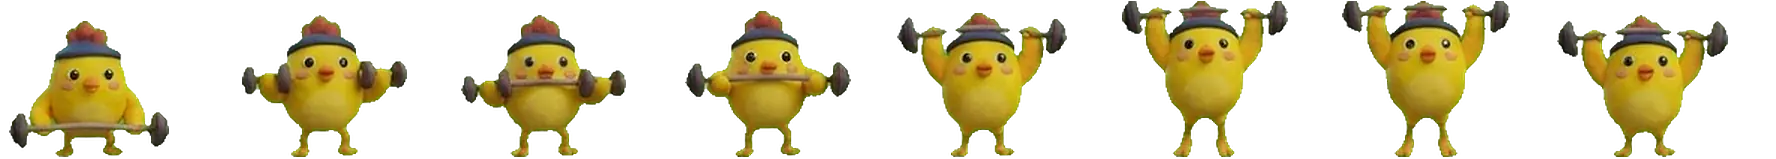
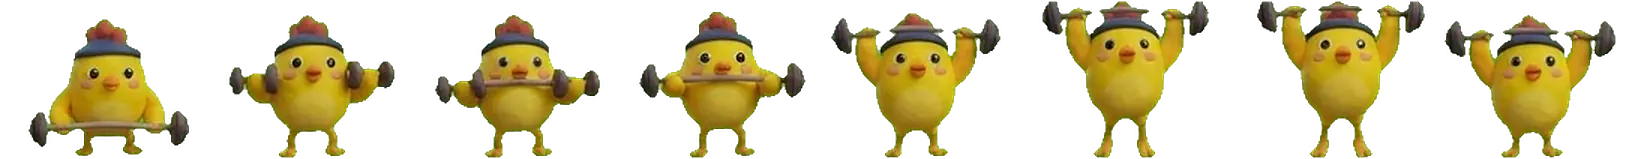
Sequências estáveis (caixa fixa, âncora na cabeça), tema Massinha (?tema=massinha)
Claude-Session: https://claude.ai/code/session_01Sv1vT94SfEQfGX6e3yK9TJ

diff --git a/index.html b/index.html
@@ -1,15 +1,16 @@
 <!doctype html>
-<html lang="pt-BR"><head><meta charset="utf-8"><meta name="viewport" content="width=device-width,initial-scale=1,viewport-fit=cover"><meta name="app-ver" content="v93-20261113l"><meta name="copyright" content="© Lucas de Souza. Todos os direitos reservados."><script>/* © Lucas de Souza. Todos os direitos reservados. Proibida a cópia, redistribuição ou uso comercial sem autorização escrita. */</script><script>/*ST-INI*/
+<html lang="pt-BR"><head><meta charset="utf-8"><meta name="viewport" content="width=device-width,initial-scale=1,viewport-fit=cover"><meta name="app-ver" content="v96-20261113o"><meta name="copyright" content="© Lucas de Souza. Todos os direitos reservados."><script>/* © Lucas de Souza. Todos os direitos reservados. Proibida a cópia, redistribuição ou uso comercial sem autorização escrita. */</script><script>/*ST-INI*/
 function stDecide(s){if(!s||typeof s!=="object")return{modo:"teste"};if(s.estado==="migrado"){var l=typeof s.loja==="string"&&/^https:\/\//.test(s.loja)?s.loja:"";return{modo:"migrado",msg:typeof s.mensagem==="string"&&s.mensagem?s.mensagem.slice(0,300):"O Frangômetro agora está na loja. Baixe o app oficial.",loja:l}}return{modo:"teste"}}
 function stAplica(d,doc){if(d.modo!=="migrado"||doc.getElementById("st-bloqueio"))return false;var o=doc.createElement("div");o.id="st-bloqueio";o.setAttribute("role","alertdialog");o.style.cssText="position:fixed;inset:0;z-index:2147483647;background:#27335F;color:#fff;display:flex;flex-direction:column;align-items:center;justify-content:center;padding:24px;text-align:center;font:16px system-ui,sans-serif";var h=doc.createElement("h1");h.textContent="Esta versão de teste foi encerrada";h.style.cssText="font-size:22px;margin:0 0 12px";var p=doc.createElement("p");p.textContent=d.msg;p.style.cssText="margin:0 0 20px;max-width:320px;line-height:1.4";o.appendChild(h);o.appendChild(p);if(d.loja){var a=doc.createElement("a");a.href=d.loja;a.textContent="Abrir na loja";a.style.cssText="background:#fff;color:#27335F;padding:12px 24px;border-radius:12px;font-weight:700;text-decoration:none";o.appendChild(a)}doc.body.appendChild(o);return true}
 /*ST-FIM*/
 (function(){try{function ver(){fetch("app-status.json?_="+Date.now(),{cache:"no-store"}).then(function(r){return r.ok?r.json():null}).then(function(j){if(j)stAplica(stDecide(j),document)}).catch(function(){})}
-if(document.readyState==="loading")document.addEventListener("DOMContentLoaded",ver);else ver();document.addEventListener("visibilitychange",function(){if(!document.hidden)ver()});setInterval(ver,300000)}catch(e){}})()</script><script>(function(){try{var V="v93-20261113l";function ocupado(){var a=document.activeElement,l=document.getElementById("layer");return (a&&/^(INPUT|TEXTAREA|SELECT)$/.test(a.tagName))||(l&&l.children.length>0)}
+if(document.readyState==="loading")document.addEventListener("DOMContentLoaded",ver);else ver();document.addEventListener("visibilitychange",function(){if(!document.hidden)ver()});setInterval(ver,300000)}catch(e){}})()</script><script>(function(){try{var V="v96-20261113o";function ocupado(){var a=document.activeElement,l=document.getElementById("layer");return (a&&/^(INPUT|TEXTAREA|SELECT)$/.test(a.tagName))||(l&&l.children.length>0)}
 function checa(){try{if(ocupado())return;fetch(location.pathname+"?_="+Date.now(),{cache:"no-store"}).then(function(r){return r.text()}).then(function(t){var m=t.match(/name="app-ver" content="([^"]+)"/);if(m&&m[1]!==V&&!ocupado()&&sessionStorage.getItem("frv")!==m[1]){sessionStorage.setItem("frv",m[1]);location.replace(location.pathname+"?v="+m[1]+location.hash)}}).catch(function(){})}catch(e){}}
 checa();document.addEventListener("visibilitychange",function(){if(!document.hidden)checa()});setInterval(checa,300000)}catch(e){}})()</script><meta name="theme-color" content="#27335F"><meta name="apple-mobile-web-app-capable" content="yes"><meta name="mobile-web-app-capable" content="yes"><meta name="apple-mobile-web-app-title" content="Frangômetro"><link rel="icon" href="icon.png"><link rel="apple-touch-icon" href="apple-touch-icon.png"><link rel="manifest" href="manifest.json"><style>:root{color-scheme:light;padding-top:env(safe-area-inset-top,0px);padding-bottom:env(safe-area-inset-bottom,0px)}body{margin:0;font:14px system-ui,sans-serif}img{max-width:100%}[hidden]{display:none!important}</style></head><body>
 <title>Frangômetro</title>
 <meta name="claude:viewport-fit-sides" content="cover">
 <link rel="preconnect" href="https://fonts.googleapis.com">
+<script>try{var q=location.search.match(/[?&]tema=(\w+)/);if(q){if(q[1]==="massinha")localStorage.setItem("raelfit:tema","massinha");else localStorage.removeItem("raelfit:tema")}if(localStorage.getItem("raelfit:tema")==="massinha"){document.documentElement.setAttribute("data-tema","massinha");var l=document.createElement("link");l.rel="stylesheet";l.href="https://fonts.googleapis.com/css2?family=Fredoka:wght@500;600;700&family=Nunito:wght@600;700;800&display=swap";document.head.appendChild(l)}}catch(e){}</script>
 <link rel="stylesheet" href="https://fonts.googleapis.com/css2?family=Big+Shoulders+Display:wght@700;900&family=Barlow:wght@500;600;700&display=swap">
 <style>
 /* Layout: app de uma coluna, mobile-first, barra de abas fixa embaixo, folhas (sheets) sobem de baixo */
@@ -265,7 +266,7 @@ details.acc summary::-webkit-details-marker{display:none}
 /* sequências reais (spritesheet em tiras, âncora nos pés) */
 .rs-sq{overflow:hidden}.rs-sq img{inset:auto;left:0;top:0;height:100%;max-width:none}
 @keyframes rsStrip{to{transform:translateX(-100%)}}
-.rs-correS .rs-c{animation:rsCorreS .75s ease-in-out infinite}
+.rs-correS .rs-c{animation:none}
 @keyframes rsCorreS{0%,100%{transform:translateY(0)}50%{transform:translateY(-3%)}}
 .rs-correS .rs-som{animation:rsSomC .75s ease-in-out infinite}
 .rs-treinaS .rs-f0{animation:rsTS0 6s steps(1) infinite}.rs-treinaS .rs-f1{animation:rsTS1 6s steps(1) infinite}
@@ -640,6 +641,36 @@ input[type=file]::file-selector-button{border-radius:10px}
 .sheet:has(.onb) .sheet-f .btn.pri:active{transform:scale(.98)}
 .sheet:has(.onb) .sheet-f .btn.ghost{clip-path:none;border-radius:18px}
 .bar>i{box-shadow:inset 0 0 0 1px rgba(27,22,48,.55)}
+/*TEMA MASSINHA (preview): visual quente e macio saído do Rael. Só liga com ?tema=massinha (volta com ?tema=classico). Não muda funções nem dados. */
+html[data-tema=massinha]{--bg:#FFF1CF;--surface:#FFFBF0;--surface-2:#FFEBB8;--ink:#2B3158;--ink-2:#46507F;--muted:#565B7C;--line:#EBD9A8;--accent:#3B4F8F;--accent-ink:#fff;--accent-soft:#E3E8F7;--prot:#4C66B0;--carb:#F2B93B;--gord:#D4574A;--fib:#A39BB8;--good:#2F7D57;--warn:#8A5A00;--bad:#B93A2E;--deficit:#4C66B0;--surplus:#D4574A;--grid:#F0E1B8;--axis:#D8C48E;--gema:#FFE08A;--f-display:"Fredoka","Baloo 2",ui-rounded,system-ui,sans-serif;--f-body:"Nunito",ui-rounded,system-ui,-apple-system,"Segoe UI",sans-serif;--rad:26px;--rad-m:18px;--sombra:inset 0 3px 0 rgba(255,255,255,.95),inset 0 -6px 10px rgba(214,178,92,.22),0 10px 20px rgba(120,90,30,.13),0 2px 3px rgba(120,90,30,.12)}
+html[data-tema=massinha] body{background:radial-gradient(120% 60% at 20% 0,#FFF9E6 0,#FFF1CF 55%,#FDE6B4 100%) fixed;font-weight:600}
+html[data-tema=massinha] h1,html[data-tema=massinha] h2,html[data-tema=massinha] h3,html[data-tema=massinha] .sec-title h2{text-transform:none;letter-spacing:0;font-weight:700}
+html[data-tema=massinha] h1{font-size:28px}html[data-tema=massinha] h2{font-size:21px}html[data-tema=massinha] h3{font-size:18px}html[data-tema=massinha] .sec-title h2{font-size:19px}
+html[data-tema=massinha] .card,html[data-tema=massinha] .ex-card{background:linear-gradient(180deg,#FFFEF8,#FFF6DD);border:0;border-radius:var(--rad);box-shadow:var(--sombra)}
+html[data-tema=massinha] .card.flat,html[data-tema=massinha] details.sec .sec-body>.card{background:none;box-shadow:none}
+html[data-tema=massinha] .fr-bal,html[data-tema=massinha] .fr-balao{background:linear-gradient(180deg,#FFE9A3,#FFDB74);border-radius:24px;box-shadow:inset 0 3px 0 rgba(255,255,255,.7),inset 0 -5px 8px rgba(214,160,40,.25),0 8px 16px rgba(120,90,30,.14);color:#2B3158}
+html[data-tema=massinha] .btn{border-radius:var(--rad-m);font-family:var(--f-display);font-weight:600;font-size:17px;text-transform:none;letter-spacing:0;background:linear-gradient(180deg,#FFFDF6,#FFEFC2);color:var(--ink);box-shadow:inset 0 3px 0 rgba(255,255,255,.95),inset 0 -4px 0 rgba(214,178,92,.35),0 5px 10px rgba(120,90,30,.15);transition:transform .08s,box-shadow .08s}
+html[data-tema=massinha] .btn:active{transform:translateY(2px);box-shadow:inset 0 2px 0 rgba(255,255,255,.9),inset 0 -2px 0 rgba(214,178,92,.35),0 2px 5px rgba(120,90,30,.15)}
+html[data-tema=massinha] .btn.pri,html[data-tema=massinha] .card .btn.pri,html[data-tema=massinha] .sheet .btn.pri{background:linear-gradient(180deg,#5670B8,#3B4F8F);color:#fff;box-shadow:inset 0 3px 0 rgba(255,255,255,.3),inset 0 -4px 0 rgba(0,0,0,.2),0 6px 12px rgba(59,79,143,.35)}
+html[data-tema=massinha] .btn.pri:active{box-shadow:inset 0 2px 0 rgba(255,255,255,.25),inset 0 -2px 0 rgba(0,0,0,.2),0 2px 6px rgba(59,79,143,.35)}
+html[data-tema=massinha] .btn.sm{border-radius:14px;font-size:15px}
+html[data-tema=massinha] nav.tabs{background:linear-gradient(180deg,#FFFDF5,#FFF1CC);border-top:0;border-radius:26px 26px 0 0;box-shadow:0 -6px 18px rgba(120,90,30,.14),inset 0 3px 0 rgba(255,255,255,.9)}
+html[data-tema=massinha] nav.tabs button{color:#5C628A;font-family:var(--f-display);font-weight:600;font-size:12.5px;text-transform:none;letter-spacing:0}
+html[data-tema=massinha] nav.tabs button[aria-current="page"]{color:var(--accent)}
+html[data-tema=massinha] nav.tabs button[aria-current="page"] svg{background:#FFD95A;border-radius:14px;padding:4px;width:34px;height:30px;box-shadow:inset 0 2px 0 rgba(255,255,255,.8),inset 0 -3px 0 rgba(214,160,40,.4)}
+html[data-tema=massinha] .fr-logo{font-family:var(--f-display);font-weight:700;color:var(--ink)}
+html[data-tema=massinha] .pill,html[data-tema=massinha] .chip,html[data-tema=massinha] .fr-chip{font-weight:700}html[data-tema=massinha] .pill.acc{background:var(--accent-soft);color:var(--accent)}
+html[data-tema=massinha] .seg{background:#FFEBB8;border-radius:var(--rad-m);box-shadow:inset 0 2px 4px rgba(214,160,40,.3)}
+html[data-tema=massinha] .seg button{font-family:var(--f-display);font-weight:600;text-transform:none;border-radius:14px}
+html[data-tema=massinha] .seg button[aria-pressed="true"],html[data-tema=massinha] .seg button.on,html[data-tema=massinha] .seg button[aria-selected="true"]{background:linear-gradient(180deg,#5670B8,#3B4F8F);color:#fff;box-shadow:inset 0 2px 0 rgba(255,255,255,.3),0 3px 6px rgba(59,79,143,.3)}
+html[data-tema=massinha] .bar{background:#F4E4B6;box-shadow:inset 0 2px 3px rgba(214,160,40,.35)}
+html[data-tema=massinha] input[type=text],html[data-tema=massinha] input[type=number],html[data-tema=massinha] input[type=search],html[data-tema=massinha] input[type=date],html[data-tema=massinha] select,html[data-tema=massinha] textarea{background:#FFFDF6;border:2px solid #E6CF92;border-radius:var(--rad-m);color:var(--ink);box-shadow:inset 0 2px 4px rgba(214,160,40,.18)}
+html[data-tema=massinha] input:focus,html[data-tema=massinha] select:focus,html[data-tema=massinha] textarea:focus,html[data-tema=massinha] .btn:focus-visible,html[data-tema=massinha] nav.tabs button:focus-visible{outline:3px solid #3B4F8F;outline-offset:2px}
+html[data-tema=massinha] .sheet:not(.full){border-radius:30px 30px 0 0;background:#FFFBF0}
+html[data-tema=massinha] .fr-nivel{font-family:var(--f-display);text-transform:none;border-radius:16px!important;font-size:24px;background:linear-gradient(180deg,#FFE08A,#FFC93C);color:#2B3158;box-shadow:inset 0 3px 0 rgba(255,255,255,.7),0 4px 8px rgba(120,90,30,.2)}
+html[data-tema=massinha] .toast{background:#2B3158;color:#fff;border-radius:18px}
+html[data-tema=massinha] .eyebrow{font-family:var(--f-display);text-transform:none;letter-spacing:.02em;font-weight:600}
+
 </style>
 
 <header class="top"><div id="faixa-teste" role="note" style="background:#FFE9A8;color:#3B2F00;text-align:center;font:600 12px/1.35 system-ui,sans-serif;padding:6px 10px">Versão de teste. Em breve nas lojas Android e iOS.</div><div class="in" id="topbar"></div></header>
@@ -4665,7 +4696,7 @@ if (/[?&]galeria=rael/.test(location.search)) addEventListener("load", () => set
 // ===== Rael de argila (arte final, WebP): poses reais animadas em CSS (2.5D). Cai no Rael SVG se o aparelho for fraco ou a imagem falhar. =====
 // Cada pose é um recorte transparente em rael/ (~8 KB cada, carregado só quando o Rael aparece). Todas na mesma escala (base 250 px de altura).
 const FR_SPRP = { parado: [230, 247], corre1: [199, 248], corre2: [205, 250], halter: [227, 251], barra: [280, 240], biceps: [211, 249], dorme: [261, 197], anda: [194, 231], caido: [208, 163], chora: [216, 243], triste: [148, 245], neutro: [137, 244], alegre: [195, 234], feliz: [188, 215], balfeliz: [178, 256], pesoPula: [174, 195], decep: [132, 240], susto: [195, 217], fita: [172, 218], podio: [187, 243], podio2: [186, 240], podio3: [168, 226], confete: [212, 205], trofeu: [212, 232], acena: [198, 229], oculos: [173, 228], espia: [100, 266], placa: [204, 238], corda: [278, 201], empurra: [312, 211], pulo: [168, 194], tchau: [159, 192], pouso: [165, 182], aponta: [130, 140], pensa: [97, 143], medita: [133, 135], fone: [118, 142], le: [123, 137], marmita: [103, 143], prancheta: [128, 136], lanterna: [125, 127], ideia: [108, 136], remedio: [94, 137], pijama: [99, 142], sol: [130, 121], pizza: [193, 231], maca: [181, 243], shake: [164, 243], cafe: [161, 241], geladeira: [231, 258], salada: [192, 234], duvida: [237, 246], beber: [185, 228], sofa: [300, 209], sofa2: [309, 208], deitado: [290, 125], bocejo: [171, 237], dorme2: [317, 184], espreg: [214, 231], levanta: [227, 179], halteres: [192, 172], agacha: [194, 176], barrafixa: [180, 216], esteira: [221, 205], pulacorda: [160, 215], toalha: [140, 183], forte: [193, 187] };
-const FR_SEQ = { corre: [10, 262, 252, 1.5], anda: [8, 267, 252, 1.3], rosca: [8, 250, 245, 1.6], barra: [8, 363, 260, 2.2], barrafixa: [8, 272, 260, 1.6], pulo: [8, 279, 247, 1.0], agua: [4, 236, 245, 1.6] }; // sequências: [quadros, largura, altura (base 250), segundos do ciclo]; âncora nos pés, sem tremer
+const FR_SEQ = { corre: [10, 211, 255, 1.3], anda: [8, 203, 252, 1.1], rosca: [8, 323, 245, 1.6], barra: [8, 333, 260, 2.2], barrafixa: [8, 206, 279, 1.6], pulo: [8, 272, 289, 1.0], agua: [4, 236, 245, 1.6] }; // sequências: [quadros, largura, altura (base 250), segundos do ciclo]; âncora nos pés, sem tremer
 const FR_SPRO = { parado: [[35.4, 35.3, 3.6], [62.2, 35.5, 3.5]], barra: [[39.6, 32.5, 2.7], [59.4, 32.2, 2.7]], biceps: [[56.2, 35, 3.7], [81.4, 34.4, 3.2]] }; // olhos (%) para piscar
 const FR_SPRC = { // cena -> [animação, quadros]
   tarde: ["parado", ["parado"]], manha: ["come", ["pijama"]], sabado: ["parado", ["sol"]], hidratado: ["agua", ["seq:agua"]], aplauso: ["salta", ["acena"]], alongando: ["parado", ["espreg"]], meditando: ["parado", ["medita"]],
